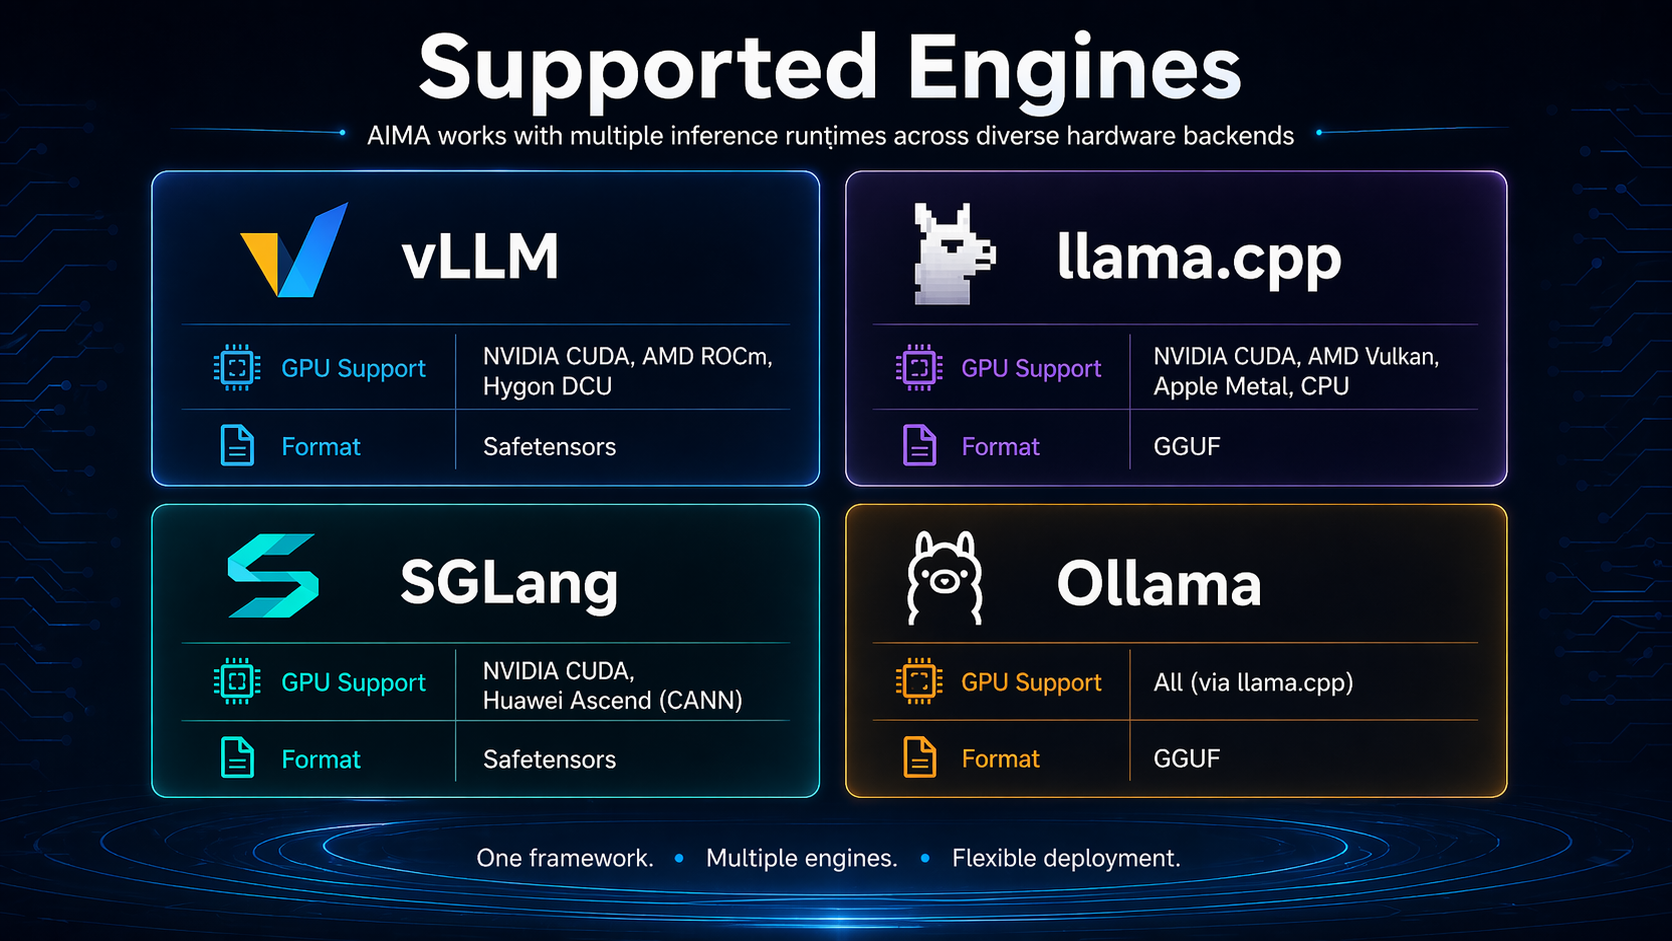
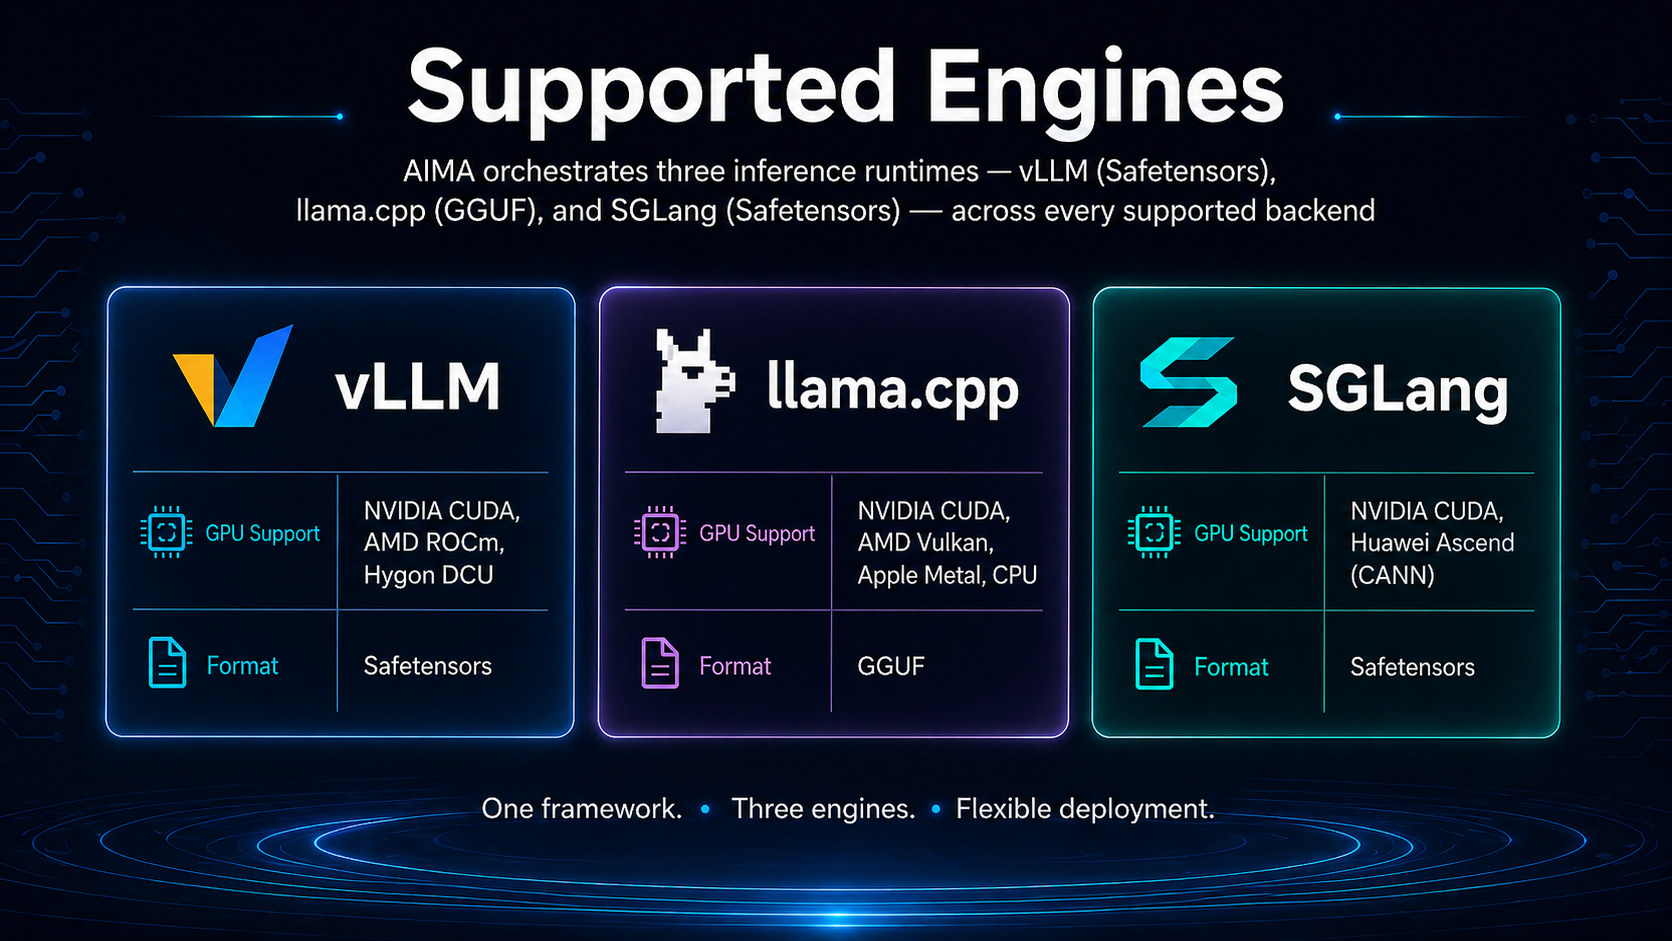
docs(readme): address skyguan92 PR review — fix CLI drift + drop Ollama
PR #43 review caught six issues (4 inherited from prior README, 2 new
in this PR). All addressed in one commit so re-review is straightforward.

CLI accuracy (existed in prior README — fix while we're touching it):
- `cd aima`                         → `cd AIMA`        (Linux case-sensitive)
- `sudo aima init`                  → `sudo aima onboarding init --tier k3s --yes`
                                       (`init` deprecated; current path is
                                        onboarding subcommand with explicit tier)
- `aima deploy apply --model X`     → `aima deploy <model>` (verified against
                                       internal/cli/deploy.go on master)
- `aima discover`                   → removed (root cmd doesn't exist; use
                                       `aima fleet devices`)
- `aima init` references in Web UI / Security sections → `aima onboarding init`

Truth-source alignment (newly introduced in v2; reviewer right):
- Drop Ollama from `## Supported Engines` — `catalog/engines/` has no
  ollama.yaml and no Ollama wiring in `internal/`. Was over-claiming.
  - Text:  "four inference runtimes ... and Ollama" → "three"
  - Image: regenerated supported-engines.png as 1×3 (vLLM / llama.cpp /
           SGLang) per PMM 2026-04-27, replacing the 2×2 4-engine version
  - Alt text: Ollama clause removed
- Drop `model.safetensors` and `benchmark.ensure_assets` from the
  MCP tools breakdown. Replaced with skyguan92's canonical lists:
[…]

Changed region(s): [[0.0, 0.0308, 1.0, 1.0], [0.0, 0.1233, 0.0311, 0.1849]]

diff --git a/README.md b/README.md
@@ -64,7 +64,7 @@ Grab a pre-built binary from the [Releases](https://github.com/Approaching-AI/AI
 
 ```bash
 git clone https://github.com/Approaching-AI/AIMA.git
-cd aima
+cd AIMA
 make build
 ```
 
@@ -95,14 +95,15 @@ aima hal detect
 
 # 2. Initialize infrastructure (installs K3S + HAMi + aima-serve daemon)
 #    Downloads airgap images for offline container startup.
+#    --tier k3s pulls in K3S + HAMi on top of the docker baseline.
 #    Requires root for systemd service installation.
-sudo aima init
+sudo aima onboarding init --tier k3s --yes
 
 # 3. Deploy a model (auto-resolves engine + config for your hardware)
-aima deploy apply --model qwen3.5-35b-a3b
+aima deploy qwen3.5-35b-a3b
 ```
 
-After `aima init`, three components are running as systemd services:
+After `aima onboarding init --tier k3s`, three components are running as systemd services:
 
 | Component | What it does |
 |-----------|-------------|
@@ -114,13 +115,10 @@ The server is now discoverable on the LAN and ready to serve inference requests.
 
 ### Client Usage (Any Platform)
 
-On another device with the AIMA binary — no `init` or `serve` needed:
+On another device with the AIMA binary — no `onboarding init` or `serve` needed:
 
 ```bash
-# Discover servers on the LAN via mDNS (no IP needed)
-aima discover
-
-# List all discovered AIMA devices
+# List AIMA devices auto-discovered on the LAN via mDNS (no IP needed)
 aima fleet devices
 
 # Query a remote device
@@ -137,7 +135,7 @@ curl http://<server-ip>:6188/v1/chat/completions \
 
 Every AIMA server hosts a built-in Web UI at `http://<server-ip>:6188/ui/`.
 
-To discover the server IP first: `aima discover`.
+To discover the server IP first: `aima fleet devices`.
 
 To get a Fleet dashboard that auto-discovers all LAN peers, run `aima serve --discover` on your own device and open `http://localhost:6188/ui/`.
 
@@ -148,7 +146,7 @@ To get a Fleet dashboard that auto-discovers all LAN peers, run `aima serve --di
 
 ### Security
 
-`aima init` starts the server **without authentication** (LAN trust model). To enable API key authentication:
+`aima onboarding init` starts the server **without authentication** (LAN trust model). To enable API key authentication:
 
 ```bash
 # Set API key (hot-reloads, no restart needed)
@@ -174,10 +172,10 @@ AIMA has been validated end-to-end across eight GPU/NPU ecosystems — NVIDIA (C
 
 ## Supported Engines
 
-AIMA orchestrates four inference runtimes — vLLM (Safetensors), llama.cpp (GGUF), SGLang (Safetensors), and Ollama (GGUF via llama.cpp) — across every supported backend:
+AIMA orchestrates three inference runtimes — vLLM (Safetensors), llama.cpp (GGUF), and SGLang (Safetensors) — across every supported backend:
 
 <div align="center">
-  <img src="docs/assets/supported-engines.png" alt="Supported Engines — vLLM on NVIDIA CUDA, AMD ROCm, Hygon DCU; llama.cpp on NVIDIA CUDA, AMD Vulkan, Apple Metal, CPU; SGLang on NVIDIA CUDA and Huawei Ascend (CANN); Ollama on all (via llama.cpp)" width="1000"/>
+  <img src="docs/assets/supported-engines.png" alt="Supported Engines — vLLM on NVIDIA CUDA, AMD ROCm, Hygon DCU; llama.cpp on NVIDIA CUDA, AMD Vulkan, Apple Metal, CPU; SGLang on NVIDIA CUDA and Huawei Ascend (CANN)" width="1000"/>
 </div>
 
 ## The L0→L3 Intelligence Ladder
@@ -233,14 +231,14 @@ AIMA is built to be driven by AI agents first, humans second.
 | Domain | Representative tools | Purpose |
 |---|---|---|
 | **hardware** | `hardware.detect` · `hardware.metrics` | GPU/CPU/RAM inventory + live telemetry |
-| **model** | `model.list` · `model.scan` · `model.pull` · `model.import` · `model.safetensors` | Local model catalog + download + import |
+| **model** | `model.list` · `model.scan` · `model.pull` · `model.import` · `model.info` · `model.remove` | Local model catalog + download + import |
 | **engine** | `engine.list` · `engine.pull` · `engine.scan` · `engine.import` · `engine.info` | Inference engine lifecycle |
 | **deploy** | `deploy.apply` · `deploy.dry_run` · `deploy.list` · `deploy.logs` · `deploy.delete` · `deploy.approve` · `deploy.status` | Start / monitor / stop model serving |
 | **fleet** | `fleet.info` · `fleet.exec` | LAN auto-discovery + remote tool execution |
 | **knowledge** | `knowledge.resolve` · `knowledge.search` · `knowledge.promote` · `knowledge.evaluate` · `knowledge.save` · `knowledge.analytics` | YAML catalog + golden-config lifecycle |
 | **agent** | `agent.ask` · `agent.status` · `agent.rollback` | L3a Agent invocation + decision trace |
 | **device** | `device.register` · `device.status` · `device.renew` · `device.reset` | aima-service identity lifecycle |
-| **benchmark** | `benchmark.run` · `benchmark.matrix` · `benchmark.record` · `benchmark.ensure_assets` | Reproducible performance testing |
+| **benchmark** | `benchmark.run` · `benchmark.matrix` · `benchmark.record` · `benchmark.list` | Reproducible performance testing |
 | **central** | `central.advise` · `central.scenario` · `central.sync` | Central knowledge server + advisory feedback |
 | **system** | `system.config` · `system.status` | Hot-reload config + overall health |
 
